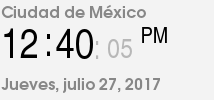
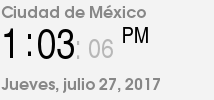
update images 27-07-2017 13:03

Changed region(s): [[0.0841, 0.27, 0.785, 0.6]]

diff --git a/README.md b/README.md
@@ -10084,3 +10084,5 @@
 |27-07-2017 12:11
 |27-07-2017 12:20
 |27-07-2017 12:40
+|27-07-2017 12:50
+|27-07-2017 13:03
